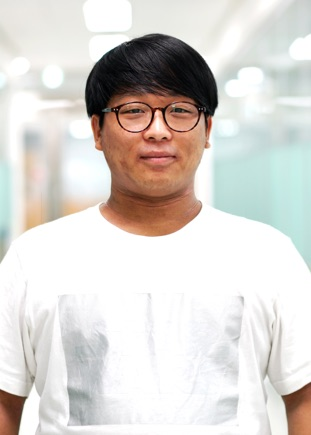
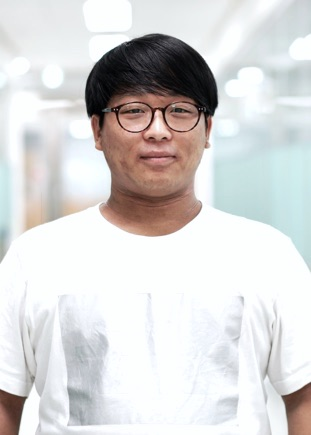
update people.md and add photos

diff --git a/people/people.md b/people/people.md
@@ -128,7 +128,7 @@ Catherine is a postdoc in the Cocoan lab. She is currently interested in identif
 
 <b><span style="font-size: 20px !important; color: #0055A9;">Yelin Lee</span></b>
 
-<img src="images/default.jpg" width="150" height="215" align="left" hspace="20" />
+<img src="images/YelinLee.jpg" width="150" height="215" align="left" hspace="20" />
 <span style="font-size: 15px !important; color: #555;">Yelin is an undergrad research assistant in the Cocoan lab. She is majoring in molecular biology at Dankook University. She wants to study human psychology using scientific methods. Her goal is to help patients through the understanding of brain mechanisms of cognitive and affective processes </span>
 
 <br><br><br><br>
@@ -137,7 +137,7 @@ Catherine is a postdoc in the Cocoan lab. She is currently interested in identif
 
 <b><span style="font-size: 20px !important; color: #0055A9;">Minie Jung</span></b>
 
-<img src="images/default.jpg" width="150" height="215" align="left" hspace="20" />
+<img src="images/MJeong.jpg" width="150" height="215" align="left" hspace="20" />
 <span style="font-size: 15px !important; color: #555;">Minie is an undergrad research assistant in the Cocoan lab. She is double majoring in Genetic engineering and Convergence software (Samsung Convergence Software Course, SCSC) as Sungkyunkwan University. She is interested in studying a behavioral neuroscience, particularly treatments for mental illnesses. She also interested in applying computational methods to neuroscience. </span>
 
 <br><br><br><br>
@@ -146,7 +146,7 @@ Catherine is a postdoc in the Cocoan lab. She is currently interested in identif
 
 <b><span style="font-size: 20px !important; color: #0055A9;">Taenyun Kim</span></b>
 
-<img src="images/default.jpg" width="150" height="215" align="left" hspace="20" />
+<img src="images/TKim.jpg" width="150" height="215" align="left" hspace="20" />
 <span style="font-size: 15px !important; color: #555;">Taenyun is an undergrad research assistant in the Cocoan lab. He is majoring in Psychology at Sungkyunkwan University. He is interested in human decision-making processes and social cognition, and their neural basis. He also wants to know about the interference of pains when persons make choices. His goal is to identify the mechanisms of human decision-making processes and find the way to improve them for better outcomes. </span>
 
 <br><br><br><br>
@@ -155,7 +155,7 @@ Catherine is a postdoc in the Cocoan lab. She is currently interested in identif
 
 <b><span style="font-size: 20px !important; color: #0055A9;">Myeonghun Beak</span></b>
 
-<img src="images/default.jpg" width="150" height="215" align="left" hspace="20" />
+<img src="images/MBeak.jpg" width="150" height="215" align="left" hspace="20" />
 <span style="font-size: 15px !important; color: #555;">Myeonghun is an undergrad research assistant in the Cocoan lab. He is majoring in medicine and minoring in cognitive science at Gachon University. He is interested in clinical applications(e.g., diagnosis, prevention, treatment, etc.) of computational methodologies for neurological diseases, especially related to cognitive dysfunctions and impairments. He is currently assisting on a project aimed to identify neural patterns and dynamics of self-generated thoughts. </span>
 
 <br><br><br><br>
